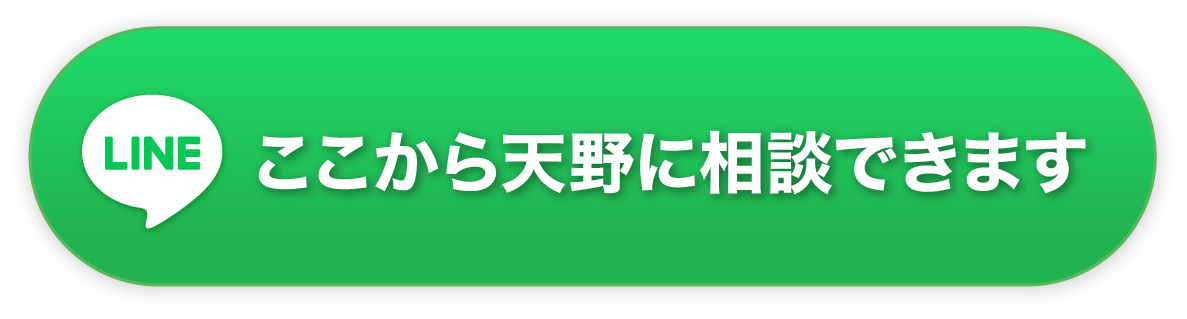
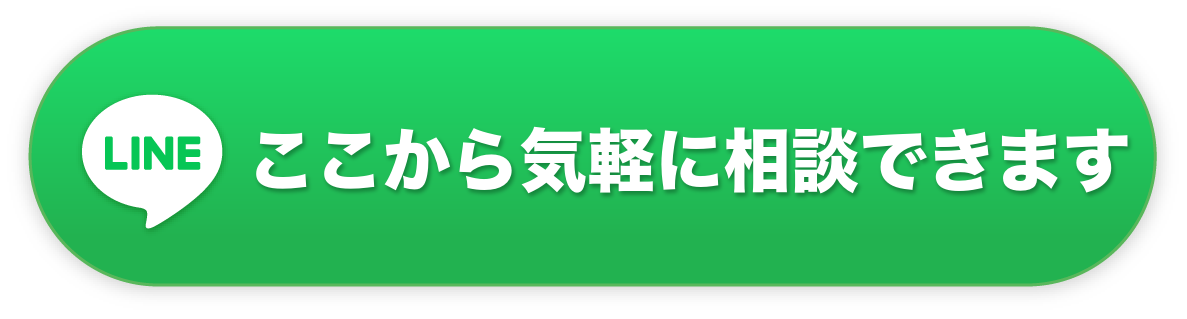
天野さん 個別説明会ページの実績欄をオプトインLPに合わせる（FORTUNE選出・TEDx登壇・Amazon1位・掲載誌）／LINEボタンを「ここから気軽に相談できます」に（返信は担当スタッフのため）／フッターに会社名

Changed region(s): [[0.2182, 0.395, 0.9663, 0.6207]]

diff --git a/amano-fusui-ep3-preview/index.html b/amano-fusui-ep3-preview/index.html
@@ -35,7 +35,7 @@
     
 
 
-<link rel="stylesheet" href="css/mendan.css?v=1791563605">
+<link rel="stylesheet" href="css/mendan.css?v=1791620001">
 </head>
 <body>
 <article>
@@ -259,14 +259,20 @@
 大手ハウスメーカーで設計とインテリアコーディネートに携わり、住宅・店舗・オフィスなど、風水鑑定は4,000件にのぼります。現在は、新築・リフォーム・今お住まいの建物に中国伝統風水を取り入れるお手伝いをしています。クライアントには、大手衣料メーカー、東証一部上場企業の経営者、クリニック、各種店舗のオーナーの方々がいらっしゃいます。</p>
 </div>
 <div class="jisseki">
+<p class="jisseki_ttl">選出・登壇</p>
+<p class="naka">米国のビジネス誌『FORTUNE』<br class="sp" />「アジアの『変革者』500（JAPAN'S CHANGE MAKERS）」に選出<br />TEDx 登壇「風水と地球環境」<br class="sp" />（公開1ヶ月たたずに2万回再生）</p>
+<div class="jisseki_pair"><img src="images/jisseki_fortune.jpg" alt="FORTUNE JAPAN'S CHANGE MAKERS に選出" /><img src="images/jisseki_tedx.jpg" alt="TEDx 登壇「風水と地球環境」" /></div>
 <p class="jisseki_ttl">TV出演</p>
-<p class="naka">日本テレビ「ヒルナンデス」本音で豪邸診断（風水チェック）<br />TBS「サタデープラス」芸能人お引っ越し風水</p>
+<p class="naka">2019年 日本テレビ「ヒルナンデス」本音で豪邸診断（風水チェック）<br />2021年 TBS「サタデープラス」芸能人お引っ越し風水</p>
 <img src="images/jisseki_tv.jpg" alt="TV出演の様子" class="jisseki_img" />
 <p class="jisseki_ttl">商業出版</p>
-<p class="naka">フローラル出版「開運!チェリー風水ー最強の部屋がお金を増やす」</p>
-<img src="images/jisseki_book.jpg" alt="開運!チェリー風水" class="jisseki_img jisseki_book" />
+<p class="naka">フローラル出版「開運!チェリー風水ー最強の部屋がお金を増やす」<br />Amazonランキング1位</p>
+<img src="images/jisseki_amazon.jpg" alt="開運!チェリー風水 Amazonランキング1位" class="jisseki_img" />
 <p class="jisseki_ttl">メディア掲載</p>
-<p class="naka">講談社 ミモレmi-mollet／講談社 anan2023年新春特別号<br />PHP 2024年あなたの運勢「凶を封じるおうち風水」<br />Re壁(日本壁装協会)「運を変えたい人が住むべき本当に良い家とは」</p>
+<p class="naka">講談社 ミモレmi-mollet／講談社 anan2023年新春特別号<br />PHP 2024年あなたの運勢「凶を封じるおうち風水」<br />Re壁(日本壁装協会)「運を変えたい人が住むべき本当に良い家とは」<br />ほか雑誌掲載多数</p>
+<img src="images/jisseki_magazine.jpg" alt="掲載誌" class="jisseki_img" />
+<p class="jisseki_ttl">その他</p>
+<p class="naka">日本キャリアカレッジ 風水講座 監修</p>
 </div>
 
 
@@ -289,7 +295,7 @@
 <h2 class="tt-h2"><span class="tt-main">申し込む前に、<br class="sp">聞いておきたいことがある方へ</span><span class="tt-sub">LINEで、お気軽にご相談いただけます</span></h2>
 <div class="box"><p>「うちの場合はどうなんだろう」「こんなことを聞いてもいいのかな」<br /><br />
 そう思って手が止まっているなら、先にLINEでメッセージをください。担当のスタッフがお返事します。ひとこと、ふたことで構いません。</p></div>
-<p class="line_btn"><a href="https://sub.the-lead11.com/line/open/fusui-official" target="_blank"><img src="images/btn_line.png" alt="ここから天野に相談できます" loading="lazy" /></a></p>
+<p class="line_btn"><a href="https://sub.the-lead11.com/line/open/fusui-official" target="_blank"><img src="images/btn_line.png" alt="ここから気軽に相談できます" loading="lazy" /></a></p>
 
 
 <h2 class="tt-h2"><span class="tt-main">まずは、一歩だけ<br class="sp">踏み出してみてください</span></h2>
@@ -330,7 +336,7 @@
 <textarea rows="3"></textarea>
 <p class="small_note">ご記入いただいた内容を確認のうえ、日程をご案内します。内容によっては、お断りすることがあります。</p>
 </div>
-<div class="cta_wrap"><a href="https://tanakayuc.github.io/static-pages/amano-fusui-thanks-preview/" class="a-btn cta_btn"><span class="cta_btn_main">個別説明会に申し込む</span><span class="cta_btn_sub">送信後、公式LINEのご案内に進みます</span></a></div>
+<div class="cta_wrap"><a href="#thanks" class="a-btn cta_btn"><span class="cta_btn_main">個別説明会に申し込む</span><span class="cta_btn_sub">送信後、公式LINEのご案内に進みます</span></a></div>
 </div>
 <div id="foot"><p><a href="https://tanakayuc.github.io/static-pages/amano-fusui-tokusho-preview/" target="_blank">特定商取引法に基づく表記</a> &nbsp;|&nbsp; <a href="https://tanakayuc.github.io/static-pages/amano-fusui-privacy-preview/" target="_blank">プライバシーポリシー</a><br />Copyright © 株式会社KAIUN All rights reserved.</p></div>
 </div><!-- end wrap -->

diff --git a/amano-fusui-mendan-preview/index.html b/amano-fusui-mendan-preview/index.html
@@ -2,9 +2,9 @@
 
 <html lang="ja">
 <head>
-<meta name="robots" content="noindex,nofollow">
 	
 <meta charset="utf-8">
+<meta name="robots" content="noindex,nofollow">
 
 <meta name="viewport" content="target-densitydpi=device-dpi, width=640px" />
 <link rel="stylesheet" href="css/reset.css">
@@ -36,7 +36,7 @@
     
 
 
-<link rel="stylesheet" href="css/mendan.css?v=1791560221">
+<link rel="stylesheet" href="css/mendan.css?v=1791620001">
 </head>
 <body>
 <div class="deadline_bar">個別説明会のお申し込みは <b>10月13日(火) 23:59</b> まで</div>
@@ -247,14 +247,20 @@
 大手ハウスメーカーで設計とインテリアコーディネートに携わり、住宅・店舗・オフィスなど、風水鑑定は4,000件にのぼります。現在は、新築・リフォーム・今お住まいの建物に中国伝統風水を取り入れるお手伝いをしています。クライアントには、大手衣料メーカー、東証一部上場企業の経営者、クリニック、各種店舗のオーナーの方々がいらっしゃいます。</p>
 </div>
 <div class="jisseki">
+<p class="jisseki_ttl">選出・登壇</p>
+<p class="naka">米国のビジネス誌『FORTUNE』<br class="sp" />「アジアの『変革者』500（JAPAN'S CHANGE MAKERS）」に選出<br />TEDx 登壇「風水と地球環境」<br class="sp" />（公開1ヶ月たたずに2万回再生）</p>
+<div class="jisseki_pair"><img src="images/jisseki_fortune.jpg" alt="FORTUNE JAPAN'S CHANGE MAKERS に選出" /><img src="images/jisseki_tedx.jpg" alt="TEDx 登壇「風水と地球環境」" /></div>
 <p class="jisseki_ttl">TV出演</p>
-<p class="naka">日本テレビ「ヒルナンデス」本音で豪邸診断（風水チェック）<br />TBS「サタデープラス」芸能人お引っ越し風水</p>
+<p class="naka">2019年 日本テレビ「ヒルナンデス」本音で豪邸診断（風水チェック）<br />2021年 TBS「サタデープラス」芸能人お引っ越し風水</p>
 <img src="images/jisseki_tv.jpg" alt="TV出演の様子" class="jisseki_img" />
 <p class="jisseki_ttl">商業出版</p>
-<p class="naka">フローラル出版「開運!チェリー風水ー最強の部屋がお金を増やす」</p>
-<img src="images/jisseki_book.jpg" alt="開運!チェリー風水" class="jisseki_img jisseki_book" />
+<p class="naka">フローラル出版「開運!チェリー風水ー最強の部屋がお金を増やす」<br />Amazonランキング1位</p>
+<img src="images/jisseki_amazon.jpg" alt="開運!チェリー風水 Amazonランキング1位" class="jisseki_img" />
 <p class="jisseki_ttl">メディア掲載</p>
-<p class="naka">講談社 ミモレmi-mollet／講談社 anan2023年新春特別号<br />PHP 2024年あなたの運勢「凶を封じるおうち風水」<br />Re壁(日本壁装協会)「運を変えたい人が住むべき本当に良い家とは」</p>
+<p class="naka">講談社 ミモレmi-mollet／講談社 anan2023年新春特別号<br />PHP 2024年あなたの運勢「凶を封じるおうち風水」<br />Re壁(日本壁装協会)「運を変えたい人が住むべき本当に良い家とは」<br />ほか雑誌掲載多数</p>
+<img src="images/jisseki_magazine.jpg" alt="掲載誌" class="jisseki_img" />
+<p class="jisseki_ttl">その他</p>
+<p class="naka">日本キャリアカレッジ 風水講座 監修</p>
 </div>
 
 
@@ -277,7 +283,7 @@
 <h2 class="tt-h2"><span class="tt-main">申し込む前に、<br class="sp">聞いておきたいことがある方へ</span><span class="tt-sub">LINEで、お気軽にご相談いただけます</span></h2>
 <div class="box"><p>「うちの場合はどうなんだろう」「こんなことを聞いてもいいのかな」<br /><br />
 そう思って手が止まっているなら、先にLINEでメッセージをください。担当のスタッフがお返事します。ひとこと、ふたことで構いません。</p></div>
-<p class="line_btn"><a href="https://sub.the-lead11.com/line/open/fusui-official" target="_blank"><img src="images/btn_line.png" alt="ここから天野に相談できます" loading="lazy" /></a></p>
+<p class="line_btn"><a href="https://sub.the-lead11.com/line/open/fusui-official" target="_blank"><img src="images/btn_line.png" alt="ここから気軽に相談できます" loading="lazy" /></a></p>
 
 
 <h2 class="tt-h2"><span class="tt-main">まずは、一歩だけ<br class="sp">踏み出してみてください</span></h2>
@@ -304,7 +310,7 @@
         <li><a href="https://tanakayuc.github.io/static-pages/amano-fusui-tokusho-preview/" target="_blank">特定商取引法に基づく表記</a>&nbsp;&nbsp;|&nbsp;&nbsp;</li>
         <li><a href="https://tanakayuc.github.io/static-pages/amano-fusui-privacy-preview/" target="_blank">プライバシーポリシー</a></li>
     </ul>
-	<small>Copyright © All rights reserved.</small>
+	<small>Copyright © 株式会社KAIUN All rights reserved.</small>
 
 </div><!-- end foot -->
 </div><!-- end wrap -->

diff --git a/amano-fusui-mendan-direct-preview/index.html b/amano-fusui-mendan-direct-preview/index.html
@@ -2,9 +2,9 @@
 
 <html lang="ja">
 <head>
-<meta name="robots" content="noindex,nofollow">
 	
 <meta charset="utf-8">
+<meta name="robots" content="noindex,nofollow">
 
 <meta name="viewport" content="target-densitydpi=device-dpi, width=640px" />
 <link rel="stylesheet" href="css/reset.css">
@@ -36,7 +36,7 @@
     
 
 
-<link rel="stylesheet" href="css/mendan.css?v=1791560221">
+<link rel="stylesheet" href="css/mendan.css?v=1791620001">
 </head>
 <body>
 <article>
@@ -246,14 +246,20 @@
 大手ハウスメーカーで設計とインテリアコーディネートに携わり、住宅・店舗・オフィスなど、風水鑑定は4,000件にのぼります。現在は、新築・リフォーム・今お住まいの建物に中国伝統風水を取り入れるお手伝いをしています。クライアントには、大手衣料メーカー、東証一部上場企業の経営者、クリニック、各種店舗のオーナーの方々がいらっしゃいます。</p>
 </div>
 <div class="jisseki">
+<p class="jisseki_ttl">選出・登壇</p>
+<p class="naka">米国のビジネス誌『FORTUNE』<br class="sp" />「アジアの『変革者』500（JAPAN'S CHANGE MAKERS）」に選出<br />TEDx 登壇「風水と地球環境」<br class="sp" />（公開1ヶ月たたずに2万回再生）</p>
+<div class="jisseki_pair"><img src="images/jisseki_fortune.jpg" alt="FORTUNE JAPAN'S CHANGE MAKERS に選出" /><img src="images/jisseki_tedx.jpg" alt="TEDx 登壇「風水と地球環境」" /></div>
 <p class="jisseki_ttl">TV出演</p>
-<p class="naka">日本テレビ「ヒルナンデス」本音で豪邸診断（風水チェック）<br />TBS「サタデープラス」芸能人お引っ越し風水</p>
+<p class="naka">2019年 日本テレビ「ヒルナンデス」本音で豪邸診断（風水チェック）<br />2021年 TBS「サタデープラス」芸能人お引っ越し風水</p>
 <img src="images/jisseki_tv.jpg" alt="TV出演の様子" class="jisseki_img" />
 <p class="jisseki_ttl">商業出版</p>
-<p class="naka">フローラル出版「開運!チェリー風水ー最強の部屋がお金を増やす」</p>
-<img src="images/jisseki_book.jpg" alt="開運!チェリー風水" class="jisseki_img jisseki_book" />
+<p class="naka">フローラル出版「開運!チェリー風水ー最強の部屋がお金を増やす」<br />Amazonランキング1位</p>
+<img src="images/jisseki_amazon.jpg" alt="開運!チェリー風水 Amazonランキング1位" class="jisseki_img" />
 <p class="jisseki_ttl">メディア掲載</p>
-<p class="naka">講談社 ミモレmi-mollet／講談社 anan2023年新春特別号<br />PHP 2024年あなたの運勢「凶を封じるおうち風水」<br />Re壁(日本壁装協会)「運を変えたい人が住むべき本当に良い家とは」</p>
+<p class="naka">講談社 ミモレmi-mollet／講談社 anan2023年新春特別号<br />PHP 2024年あなたの運勢「凶を封じるおうち風水」<br />Re壁(日本壁装協会)「運を変えたい人が住むべき本当に良い家とは」<br />ほか雑誌掲載多数</p>
+<img src="images/jisseki_magazine.jpg" alt="掲載誌" class="jisseki_img" />
+<p class="jisseki_ttl">その他</p>
+<p class="naka">日本キャリアカレッジ 風水講座 監修</p>
 </div>
 
 
@@ -276,7 +282,7 @@
 <h2 class="tt-h2"><span class="tt-main">申し込む前に、<br class="sp">聞いておきたいことがある方へ</span><span class="tt-sub">LINEで、お気軽にご相談いただけます</span></h2>
 <div class="box"><p>「うちの場合はどうなんだろう」「こんなことを聞いてもいいのかな」<br /><br />
 そう思って手が止まっているなら、先にLINEでメッセージをください。担当のスタッフがお返事します。ひとこと、ふたことで構いません。</p></div>
-<p class="line_btn"><a href="https://sub.the-lead11.com/line/open/fusui-official" target="_blank"><img src="images/btn_line.png" alt="ここから天野に相談できます" loading="lazy" /></a></p>
+<p class="line_btn"><a href="https://sub.the-lead11.com/line/open/fusui-official" target="_blank"><img src="images/btn_line.png" alt="ここから気軽に相談できます" loading="lazy" /></a></p>
 
 
 <h2 class="tt-h2"><span class="tt-main">まずは、一歩だけ<br class="sp">踏み出してみてください</span></h2>
@@ -303,7 +309,7 @@
         <li><a href="https://tanakayuc.github.io/static-pages/amano-fusui-tokusho-preview/" target="_blank">特定商取引法に基づく表記</a>&nbsp;&nbsp;|&nbsp;&nbsp;</li>
         <li><a href="https://tanakayuc.github.io/static-pages/amano-fusui-privacy-preview/" target="_blank">プライバシーポリシー</a></li>
     </ul>
-	<small>Copyright © All rights reserved.</small>
+	<small>Copyright © 株式会社KAIUN All rights reserved.</small>
 
 </div><!-- end foot -->
 </div><!-- end wrap -->

diff --git a/amano-fusui-fukushu-preview/index.html b/amano-fusui-fukushu-preview/index.html
@@ -35,7 +35,7 @@
     
 
 
-<link rel="stylesheet" href="css/mendan.css?v=1791560221">
+<link rel="stylesheet" href="css/mendan.css?v=1791620001">
 </head>
 <body>
 <article>
@@ -70,7 +70,7 @@
 <div class="box"><p>「申し込む前に、聞いておきたいことがある」「うちの場合はどうなのか知りたい」「受付の期間が過ぎてしまったけれど、本当は話を聞いてみたかった」という方は、LINEでひとこと送ってください。<br /><br />
 長い文章でなくて大丈夫です。「玄関の正面が窓なんです」「寝室に梁があります」それだけでも構いません。担当のスタッフがお返事します。</p>
 <p class="naka"><b>天野千恵里</b></p></div>
-<p class="line_btn"><a href="https://sub.the-lead11.com/line/open/fusui-official" target="_blank"><img src="images/btn_line.png" alt="ここから天野に相談できます" /></a></p>
+<p class="line_btn"><a href="https://sub.the-lead11.com/line/open/fusui-official" target="_blank"><img src="images/btn_line.png" alt="ここから気軽に相談できます" /></a></p>
 <p class="deadline_note deadline_big">このページの公開とLINEでのご相談：<b>10月15日(木) 23:59</b> まで</p>
 <div id="foot"><p><a href="https://tanakayuc.github.io/static-pages/amano-fusui-tokusho-preview/" target="_blank">特定商取引法に基づく表記</a> &nbsp;|&nbsp; <a href="https://tanakayuc.github.io/static-pages/amano-fusui-privacy-preview/" target="_blank">プライバシーポリシー</a><br />Copyright © 株式会社KAIUN All rights reserved.</p></div>
 </div><!-- end wrap -->

diff --git a/amano-fusui-end-preview/css/mendan.css b/amano-fusui-end-preview/css/mendan.css
@@ -513,3 +513,6 @@ body:has(.cd_fixed){padding-bottom:110px}
 #apply_form{scroll-margin-top:20px;padding-top:20px}
 .opts .opt.opt_wide{white-space:normal;line-height:1.6}
 @media screen and (max-width:640px){ .cd_fixed.cd_inline{width:94%;padding:18px 10px} .cd_fixed.cd_inline .cd_date{font-size:20px} }
+/* 2026-10-10 実績欄に FORTUNE・TEDx を2枚並べる（オプトインLPの実績欄に合わせた） */
+.jisseki_pair{display:flex;gap:16px;justify-content:center;margin:14px auto 0}
+.jisseki_pair img{width:48%;max-width:360px;height:auto;display:block}

diff --git a/amano-fusui-ep1-preview/css/mendan.css b/amano-fusui-ep1-preview/css/mendan.css
@@ -513,3 +513,6 @@ body:has(.cd_fixed){padding-bottom:110px}
 #apply_form{scroll-margin-top:20px;padding-top:20px}
 .opts .opt.opt_wide{white-space:normal;line-height:1.6}
 @media screen and (max-width:640px){ .cd_fixed.cd_inline{width:94%;padding:18px 10px} .cd_fixed.cd_inline .cd_date{font-size:20px} }
+/* 2026-10-10 実績欄に FORTUNE・TEDx を2枚並べる（オプトインLPの実績欄に合わせた） */
+.jisseki_pair{display:flex;gap:16px;justify-content:center;margin:14px auto 0}
+.jisseki_pair img{width:48%;max-width:360px;height:auto;display:block}

diff --git a/amano-fusui-ep2-preview/css/mendan.css b/amano-fusui-ep2-preview/css/mendan.css
@@ -513,3 +513,6 @@ body:has(.cd_fixed){padding-bottom:110px}
 #apply_form{scroll-margin-top:20px;padding-top:20px}
 .opts .opt.opt_wide{white-space:normal;line-height:1.6}
 @media screen and (max-width:640px){ .cd_fixed.cd_inline{width:94%;padding:18px 10px} .cd_fixed.cd_inline .cd_date{font-size:20px} }
+/* 2026-10-10 実績欄に FORTUNE・TEDx を2枚並べる（オプトインLPの実績欄に合わせた） */
+.jisseki_pair{display:flex;gap:16px;justify-content:center;margin:14px auto 0}
+.jisseki_pair img{width:48%;max-width:360px;height:auto;display:block}

diff --git a/amano-fusui-ep3-preview/css/mendan.css b/amano-fusui-ep3-preview/css/mendan.css
@@ -513,3 +513,6 @@ body:has(.cd_fixed){padding-bottom:110px}
 #apply_form{scroll-margin-top:20px;padding-top:20px}
 .opts .opt.opt_wide{white-space:normal;line-height:1.6}
 @media screen and (max-width:640px){ .cd_fixed.cd_inline{width:94%;padding:18px 10px} .cd_fixed.cd_inline .cd_date{font-size:20px} }
+/* 2026-10-10 実績欄に FORTUNE・TEDx を2枚並べる（オプトインLPの実績欄に合わせた） */
+.jisseki_pair{display:flex;gap:16px;justify-content:center;margin:14px auto 0}
+.jisseki_pair img{width:48%;max-width:360px;height:auto;display:block}

diff --git a/amano-fusui-fukushu-preview/css/mendan.css b/amano-fusui-fukushu-preview/css/mendan.css
@@ -513,3 +513,6 @@ body:has(.cd_fixed){padding-bottom:110px}
 #apply_form{scroll-margin-top:20px;padding-top:20px}
 .opts .opt.opt_wide{white-space:normal;line-height:1.6}
 @media screen and (max-width:640px){ .cd_fixed.cd_inline{width:94%;padding:18px 10px} .cd_fixed.cd_inline .cd_date{font-size:20px} }
+/* 2026-10-10 実績欄に FORTUNE・TEDx を2枚並べる（オプトインLPの実績欄に合わせた） */
+.jisseki_pair{display:flex;gap:16px;justify-content:center;margin:14px auto 0}
+.jisseki_pair img{width:48%;max-width:360px;height:auto;display:block}

diff --git a/amano-fusui-mendan-direct-preview/css/mendan.css b/amano-fusui-mendan-direct-preview/css/mendan.css
@@ -513,3 +513,6 @@ body:has(.cd_fixed){padding-bottom:110px}
 #apply_form{scroll-margin-top:20px;padding-top:20px}
 .opts .opt.opt_wide{white-space:normal;line-height:1.6}
 @media screen and (max-width:640px){ .cd_fixed.cd_inline{width:94%;padding:18px 10px} .cd_fixed.cd_inline .cd_date{font-size:20px} }
+/* 2026-10-10 実績欄に FORTUNE・TEDx を2枚並べる（オプトインLPの実績欄に合わせた） */
+.jisseki_pair{display:flex;gap:16px;justify-content:center;margin:14px auto 0}
+.jisseki_pair img{width:48%;max-width:360px;height:auto;display:block}

diff --git a/amano-fusui-mendan-preview/css/mendan.css b/amano-fusui-mendan-preview/css/mendan.css
@@ -513,3 +513,6 @@ body:has(.cd_fixed){padding-bottom:110px}
 #apply_form{scroll-margin-top:20px;padding-top:20px}
 .opts .opt.opt_wide{white-space:normal;line-height:1.6}
 @media screen and (max-width:640px){ .cd_fixed.cd_inline{width:94%;padding:18px 10px} .cd_fixed.cd_inline .cd_date{font-size:20px} }
+/* 2026-10-10 実績欄に FORTUNE・TEDx を2枚並べる（オプトインLPの実績欄に合わせた） */
+.jisseki_pair{display:flex;gap:16px;justify-content:center;margin:14px auto 0}
+.jisseki_pair img{width:48%;max-width:360px;height:auto;display:block}

diff --git a/amano-fusui-privacy-preview/css/mendan.css b/amano-fusui-privacy-preview/css/mendan.css
@@ -513,3 +513,6 @@ body:has(.cd_fixed){padding-bottom:110px}
 #apply_form{scroll-margin-top:20px;padding-top:20px}
 .opts .opt.opt_wide{white-space:normal;line-height:1.6}
 @media screen and (max-width:640px){ .cd_fixed.cd_inline{width:94%;padding:18px 10px} .cd_fixed.cd_inline .cd_date{font-size:20px} }
+/* 2026-10-10 実績欄に FORTUNE・TEDx を2枚並べる（オプトインLPの実績欄に合わせた） */
+.jisseki_pair{display:flex;gap:16px;justify-content:center;margin:14px auto 0}
+.jisseki_pair img{width:48%;max-width:360px;height:auto;display:block}
